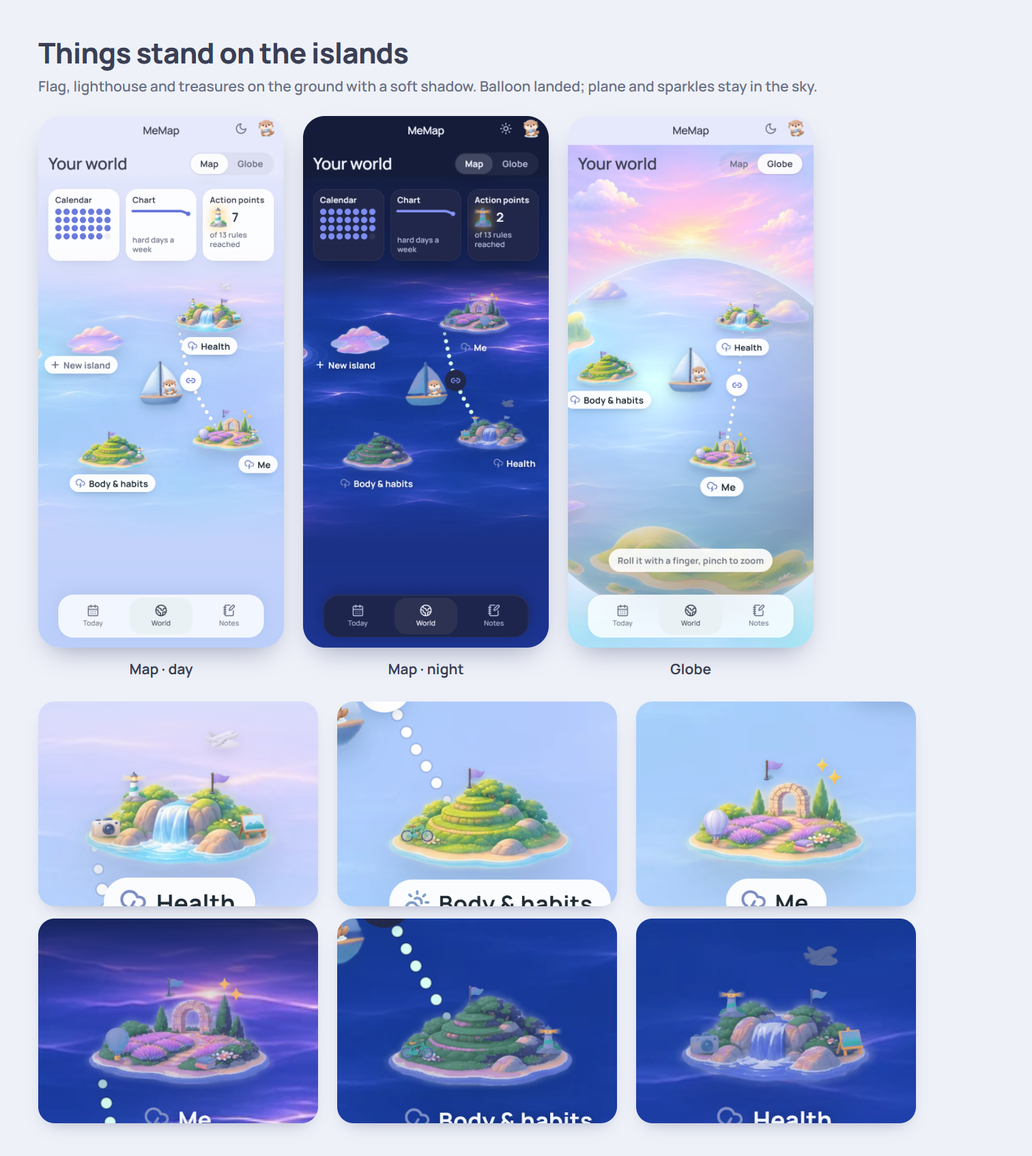
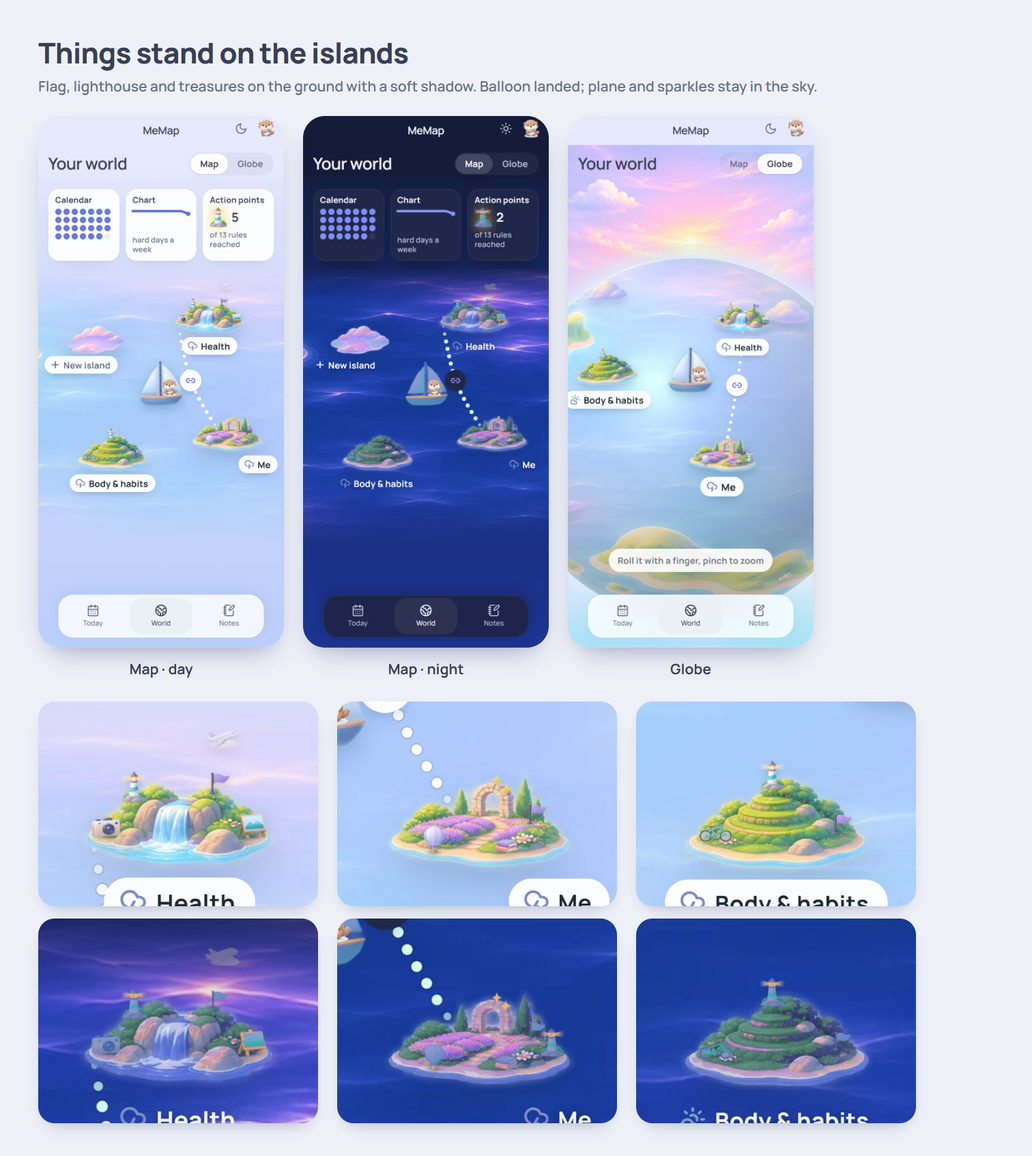
Me island tidied, lighthouse on top of Body (Aurora v56)
Her notes: Me looked strange (the flag hung over the arch, the sparkles in the
air, a big balloon); the lighthouse on Body could go on the top. Me: flag on the
grass by the cypress, balloon smaller at the front, sparkles a small glint low
over the island. Body: lighthouse on the top terrace, flag to the side.

diff --git a/src/index.css b/src/index.css
@@ -2437,12 +2437,13 @@ html[data-ui="new"] .map-sea::-webkit-scrollbar { display: none; }
 .planet-isle .treasure img { width: 100%; filter: drop-shadow(0 3px 4px rgba(20, 60, 100, .22)); }
 .planet-isle .treasure.stand { width: 15%; }
 .planet-isle .treasure.stand.it-bicycle { width: 18%; }
-.planet-isle .treasure.stand.it-balloon { width: 14%; }
+.planet-isle .treasure.stand.it-balloon { width: 11%; }
 .planet-isle .treasure.stand.it-books { width: 12%; }
 .planet-isle .treasure.t-sky { left: 40%; top: -40%; width: 18%; }
 .planet-isle .treasure.t-sky.it-rainbow { left: 4%; top: -30%; width: 92%; z-index: -1; }
 .planet-isle .treasure.t-sky.it-airplane { left: 58%; top: -52%; width: 22%; }
-.planet-isle .treasure.t-sky.it-sparkles { left: 70%; top: -14%; width: 14%; }
+/* sparkles: a small glint low over the island, not up in the air */
+.planet-isle .treasure.t-sky.it-sparkles { left: 56%; top: 2%; width: 11%; }
 .planet-isle .treasure.is-ghost { opacity: .5; filter: grayscale(1); }
 .planet-isle .treasure.t-sky:not(.is-ghost):not(.it-rainbow) { animation: treasureFloat 3.6s ease-in-out infinite; }
 @keyframes treasureFloat { 0%, 100% { transform: translateY(0); } 50% { transform: translateY(-5%); } }

diff --git a/src/lib/islandSpots.ts b/src/lib/islandSpots.ts
@@ -17,8 +17,10 @@ const SPOTS: Record<string, Spots> = {
   "11_sakura": { flag: [22, 72], light: [80, 70], left: [36, 82], right: [66, 84] },
   "14_stone_arch": { flag: [52, 10], light: [74, 14], left: [22, 76], right: [84, 66] },
   "16_cozy_cottage": { flag: [44, 10], light: [86, 64], left: [18, 72], right: [64, 80] },
-  "17_lavender_garden": { flag: [48, 6], light: [86, 64], left: [18, 70], right: [64, 80] },
-  "19_grassy_terraces": { flag: [48, 14], light: [86, 62], left: [18, 68], right: [44, 82] },
+  // her note (Nov 5 2026): Me looked strange with the flag over the arch: on the grass by the cypress now
+  "17_lavender_garden": { flag: [80, 50], light: [88, 66], left: [26, 80], right: [64, 80] },
+  // her note: the lighthouse on the top of Body; the flag goes to the side
+  "19_grassy_terraces": { flag: [84, 60], light: [48, 14], left: [18, 68], right: [44, 82] },
   "20_tropical_palms": { flag: [22, 68], light: [84, 70], left: [40, 88], right: [68, 80] },
   "24_oak_tree": { flag: [24, 66], light: [80, 66], left: [30, 80], right: [68, 82] },
   "26_flowery_island": { flag: [52, 14], light: [86, 60], left: [36, 80], right: [64, 84] },

diff --git a/VERSIONS.md b/VERSIONS.md
@@ -8,7 +8,7 @@
 | **Сейчас в App Store (1.7.9)** | ветка `main` и метка `v1.7.9-live` (к ней можно откатиться) | — |
 | 1.8.0 (не собиралась) | ветка `release/1.8.0` | — |
 | **Розовая версия со стикерами** (архив от 31 окт. 2026) | метка `archive/sticker-diary-2026-10-31`, ветка `design/malu-world` | https://claude.ai/artifact/NFmgCod55uLGoCq77j4stD — не перезаписываем |
-| **Новая версия Aurora** (в работе) | ветка `design/aurora-ux`; снимки — метки `aurora/v16` … `aurora/v55`… (v25 = первая сборка 1.8.0 для TestFlight; v26 = новый глобус: её нарисованная планета и острова; v27 = плоская карта на её планете с новыми островами и следами, Today на её море с огоньками и лодкой; v28 = звуки выключены (вместо них вибрация), путь листается ровно с одним морем, зум глобуса щипком, новые вопросы к пройденному острову — отдельным шагом у лодки; v29 = путь как у Duolingo: фонарики змейкой без подписей, пузырь Start над её шагом, карточка по нажатию, обычная прокрутка; v30 = огоньки без значков, все круглые; v31 = правило «один огонёк = один вечер»: 7 огоньков и сундук в неделе, части вечера — кольцом и списком в карточке; фон Today снова стоит на месте; v32 = фон Today как на карте (открытое море её планеты), без белой полоски между огоньками, у каждого огонька подпись; v33 = исправлен вылет глобуса, шаги снова кружками со значками (объёмные, как Duolingo), отчёт вместо сундука, связи пунктиром, новые цвета календаря и графиков, первые и пустые экраны в новом стиле; v34 = все острова растут по 4 стадиям от вечеров, на пути сам появляется «остров вырос», в карточке острова его стадия; v35 = нажатие на пунктир открывает карточку связи: что с чем, k из n раз, честная строка, график; v36 = погода по одному правилу с маяками и с объяснением «почему» в карточке острова; v37 = вкладка World вместо Map, пропущенный день — кнопкой сбоку, не шагом на пути; v38 = лестница роста в карточке острова: все 4 стадии, во что он вырастет; v39 = Action points: сначала действие, «I'll try / Show / Not for me», «I'll try» запускает тест на неделю, «still taking shape» вместо «all calm» без данных; один набор кнопок и переключателей во всех экранах, без зелёного фона и золотых рамок; v40 = Notes на том же море, что Today, без плашки за заголовком, заметки белыми карточками; одна шкала у точки действия в списке, на карточке и в «Show», совпадает с тёмными точками дней; v41 = «день — это кружок»: квадратики и полоски дней стали кружками, цвета по одному правилу (индиго — тяжёлый, лавандовый — спокойный, серый — без ответа, золото — вечер сделан), заметка — значком; исправлен переключатель Yes/No в карточке прошлого дня; v42 = сокровища на островах (карта и глобус), следующее — бледным, «Сокровища здесь» в карточке острова; в отчёте связь вместо моста и рост островов по стадиям; v43 = проверка трёх сценариев (тяжёлая неделя, 4 дня без ответов, день↔ночь): на карточке вопроса остров как на карте, заголовок прошлого дня в одну строку, подсказка глобуса читается ночью; v44 = шрифт Manrope вместо DM Sans + Onest и текст мягким графитом; v45 = у «Разгрузи голову» и теста своя карточка (было «0 answers»), карточка шага непрозрачная; v46 = когда вечер пройден, на пути карточка «Ты сегодня молодец!» с «Полопать пузыри» и «Найти новые вопросы»; v47 = звуки вернулись только в пузырях, с их кнопкой звука; v48 = «Ты сегодня молодец!» не висит на пути, а открывается по нажатию на последний кружок дня; v49 = старый стиль убран из окон «Заметка», «Добавить вопрос», «Свой вопрос», «Настройки»; общая кнопка и основной бирюзовый как в нашем наборе; v50 = онбординг v2 в приложении: «Что бывает перед лучшими днями и самыми тяжёлыми?», развилка, двери «Плохие ночи» и 7 хороших дней, 6 новых вопросов, обещание её словами и первый остров из облака, первый огонёк, «Кто плывёт с тобой?»; на ссылке кнопка «Start as a new user» начинает с нуля; v51 = на карточках полные вопросы «Did you…?» вместо «A warm moment with your partner?»; v52 = Today всё время говорит, что дальше: в первый день 7 вопросов (к вопросам двери ещё 3 примера из других частей жизни), вопросы, добавленные днём, — один шаг «Новые вопросы» у лодки (лодку больше не отбрасывает назад), закрытая без текста заметка = «не сегодня» и больше не предлагается, последний кружок дня «На сегодня всё» загорается, когда всё пройдено: «Полопать пузыри», «Найти новые вопросы», «Посмотреть связи» (карта World), «Календарь»; v53 = кнопка календаря в конце дня называет то, что там увидишь, по её теме: «Дни с мигренью», «Плохие ночи», «Дни с энергией»… (без темы — «Твои дни в календаре»), календарь открывается на этом вопросе; v54 = в первый день после вопросов три шага «что даёт приложение»: «Твои связи», «Дни с мигренью» (календарь), «Твои недели» (график) — в каждом пример с пометкой «Пример», одна строка и «у тебя: 1 из 10 вечеров» кружками; заданий в этот день нет; в «На сегодня всё» связи и календарь появляются, только когда там что-то есть (первая связь; 7 дней); плюсик в «Добавить вопрос» работает (вся строка — одна кнопка); v55 = флажок, маяк и сокровища стоят на земле острова с мягкой тенью (свои точки на каждой из 14 картинок), шар приземлился на остров, радуга за островом, самолёт и искорки маленькие в небе) (номер = версия ссылки для телефона) | https://claude.ai/artifact/5RQUsU2CcaRKKHyoowZpaF — каждая версия остаётся в истории ссылки |
+| **Новая версия Aurora** (в работе) | ветка `design/aurora-ux`; снимки — метки `aurora/v16` … `aurora/v56`… (v25 = первая сборка 1.8.0 для TestFlight; v26 = новый глобус: её нарисованная планета и острова; v27 = плоская карта на её планете с новыми островами и следами, Today на её море с огоньками и лодкой; v28 = звуки выключены (вместо них вибрация), путь листается ровно с одним морем, зум глобуса щипком, новые вопросы к пройденному острову — отдельным шагом у лодки; v29 = путь как у Duolingo: фонарики змейкой без подписей, пузырь Start над её шагом, карточка по нажатию, обычная прокрутка; v30 = огоньки без значков, все круглые; v31 = правило «один огонёк = один вечер»: 7 огоньков и сундук в неделе, части вечера — кольцом и списком в карточке; фон Today снова стоит на месте; v32 = фон Today как на карте (открытое море её планеты), без белой полоски между огоньками, у каждого огонька подпись; v33 = исправлен вылет глобуса, шаги снова кружками со значками (объёмные, как Duolingo), отчёт вместо сундука, связи пунктиром, новые цвета календаря и графиков, первые и пустые экраны в новом стиле; v34 = все острова растут по 4 стадиям от вечеров, на пути сам появляется «остров вырос», в карточке острова его стадия; v35 = нажатие на пунктир открывает карточку связи: что с чем, k из n раз, честная строка, график; v36 = погода по одному правилу с маяками и с объяснением «почему» в карточке острова; v37 = вкладка World вместо Map, пропущенный день — кнопкой сбоку, не шагом на пути; v38 = лестница роста в карточке острова: все 4 стадии, во что он вырастет; v39 = Action points: сначала действие, «I'll try / Show / Not for me», «I'll try» запускает тест на неделю, «still taking shape» вместо «all calm» без данных; один набор кнопок и переключателей во всех экранах, без зелёного фона и золотых рамок; v40 = Notes на том же море, что Today, без плашки за заголовком, заметки белыми карточками; одна шкала у точки действия в списке, на карточке и в «Show», совпадает с тёмными точками дней; v41 = «день — это кружок»: квадратики и полоски дней стали кружками, цвета по одному правилу (индиго — тяжёлый, лавандовый — спокойный, серый — без ответа, золото — вечер сделан), заметка — значком; исправлен переключатель Yes/No в карточке прошлого дня; v42 = сокровища на островах (карта и глобус), следующее — бледным, «Сокровища здесь» в карточке острова; в отчёте связь вместо моста и рост островов по стадиям; v43 = проверка трёх сценариев (тяжёлая неделя, 4 дня без ответов, день↔ночь): на карточке вопроса остров как на карте, заголовок прошлого дня в одну строку, подсказка глобуса читается ночью; v44 = шрифт Manrope вместо DM Sans + Onest и текст мягким графитом; v45 = у «Разгрузи голову» и теста своя карточка (было «0 answers»), карточка шага непрозрачная; v46 = когда вечер пройден, на пути карточка «Ты сегодня молодец!» с «Полопать пузыри» и «Найти новые вопросы»; v47 = звуки вернулись только в пузырях, с их кнопкой звука; v48 = «Ты сегодня молодец!» не висит на пути, а открывается по нажатию на последний кружок дня; v49 = старый стиль убран из окон «Заметка», «Добавить вопрос», «Свой вопрос», «Настройки»; общая кнопка и основной бирюзовый как в нашем наборе; v50 = онбординг v2 в приложении: «Что бывает перед лучшими днями и самыми тяжёлыми?», развилка, двери «Плохие ночи» и 7 хороших дней, 6 новых вопросов, обещание её словами и первый остров из облака, первый огонёк, «Кто плывёт с тобой?»; на ссылке кнопка «Start as a new user» начинает с нуля; v51 = на карточках полные вопросы «Did you…?» вместо «A warm moment with your partner?»; v52 = Today всё время говорит, что дальше: в первый день 7 вопросов (к вопросам двери ещё 3 примера из других частей жизни), вопросы, добавленные днём, — один шаг «Новые вопросы» у лодки (лодку больше не отбрасывает назад), закрытая без текста заметка = «не сегодня» и больше не предлагается, последний кружок дня «На сегодня всё» загорается, когда всё пройдено: «Полопать пузыри», «Найти новые вопросы», «Посмотреть связи» (карта World), «Календарь»; v53 = кнопка календаря в конце дня называет то, что там увидишь, по её теме: «Дни с мигренью», «Плохие ночи», «Дни с энергией»… (без темы — «Твои дни в календаре»), календарь открывается на этом вопросе; v54 = в первый день после вопросов три шага «что даёт приложение»: «Твои связи», «Дни с мигренью» (календарь), «Твои недели» (график) — в каждом пример с пометкой «Пример», одна строка и «у тебя: 1 из 10 вечеров» кружками; заданий в этот день нет; в «На сегодня всё» связи и календарь появляются, только когда там что-то есть (первая связь; 7 дней); плюсик в «Добавить вопрос» работает (вся строка — одна кнопка); v55 = флажок, маяк и сокровища стоят на земле острова с мягкой тенью (свои точки на каждой из 14 картинок), шар приземлился на остров, радуга за островом, самолёт и искорки маленькие в небе; v56 = на «Я» флажок на траве у кипариса, искорки на арке, шар меньше и впереди; на Body маяк на верхушке) (номер = версия ссылки для телефона) | https://claude.ai/artifact/5RQUsU2CcaRKKHyoowZpaF — каждая версия остаётся в истории ссылки |
 
 Внутри новой версии есть «классический режим» (папка `src/classic/`): те, кто начал пользоваться до 1.8.0, видят прежние экраны 1.7.9 со всеми своими ответами.
 

diff --git a/marketing/aurora-light-ux/WORLD-BIBLE.md b/marketing/aurora-light-ux/WORLD-BIBLE.md
@@ -36,7 +36,7 @@
 | **Week report** (золотой кружок с отчётом) | Итог недели | Открывается после 7 засчитанных вечеров. Внутри: вывод недели, неделя в цифрах, что выросло, задание на следующую неделю, звание. Это не сундук и не подарок. |
 | **Огонёк в шапке** (59) | Вечера подряд | Считается по тому же правилу, что и золотые кружки. |
 | **«Week 9 · 3/7»** | Какая неделя и сколько вечеров засчитано | |
-| **Вещи на острове** (флажок, маяк, сокровища) | Стоят на земле | У каждой картинки острова свои точки на земле (src/lib/islandSpots.ts): флажок 4-й стадии — на вершине, маяк — сбоку, сокровища — слева и справа на траве или песке, маленькие, с мягкой тенью. Воздушный шар приземлился на остров. В небе только самолёт и искорки (маленькие), радуга — за островом, концами в воде. (v55: «трежерз левитируют над островом».) |
+| **Вещи на острове** (флажок, маяк, сокровища) | Стоят на земле | У каждой картинки острова свои точки на земле (src/lib/islandSpots.ts): флажок 4-й стадии — на вершине, маяк — сбоку, сокровища — слева и справа на траве или песке, маленькие, с мягкой тенью. Воздушный шар приземлился на остров. В небе только самолёт и искорки (маленькие), радуга — за островом, концами в воде. (v55: «трежерз левитируют над островом». v56: на «Я» флажок не над аркой, а на траве; на Body маяк на верхушке — её просьба; искорки — блеск низко над островом.) |
 | **Новые вопросы посреди дня** | Один шаг «Новые вопросы» у лодки (значок плюс) | Любые вопросы, добавленные после того, как день начался (после онбординга в первый день), — в этом шаге, а не на своём острове; после ответа шаг остаётся на месте. Завтра они уходят на свои острова. Лодку никогда не отбрасывает назад. (v28; v52 — «меня перекинуло на лав».) |
 | **Задание «Напиши заметку»** | Можно не делать | Закрыла заметку без текста — это «не сегодня»: подсветка идёт дальше, и это задание больше не предлагается («я сама знаю, что если что, я напишу note»). (v52) |
 | **«Что даёт приложение»** (3 кружка после вопросов) | Пока нечего показать | «Твои связи», «Дни с мигренью» (календарь, название по её теме), «Твои недели» (график). Карточка: пример с пометкой «Пример» (её собственные вопросы в примере связи), одна строка, «У тебя: k из n вечеров» кружками (связи — 10, график — 14), «Дальше»; «Мои связи / Мой календарь / Мой график» — только когда там уже что-то есть. Пройденный сегодня — галочкой, завтра его нет. В этот день задания нет. В «На сегодня всё» связи появляются с первой связью, календарь — с 7 дней. (v54: «там ничего не происходит… ничего не объясняется».) |
